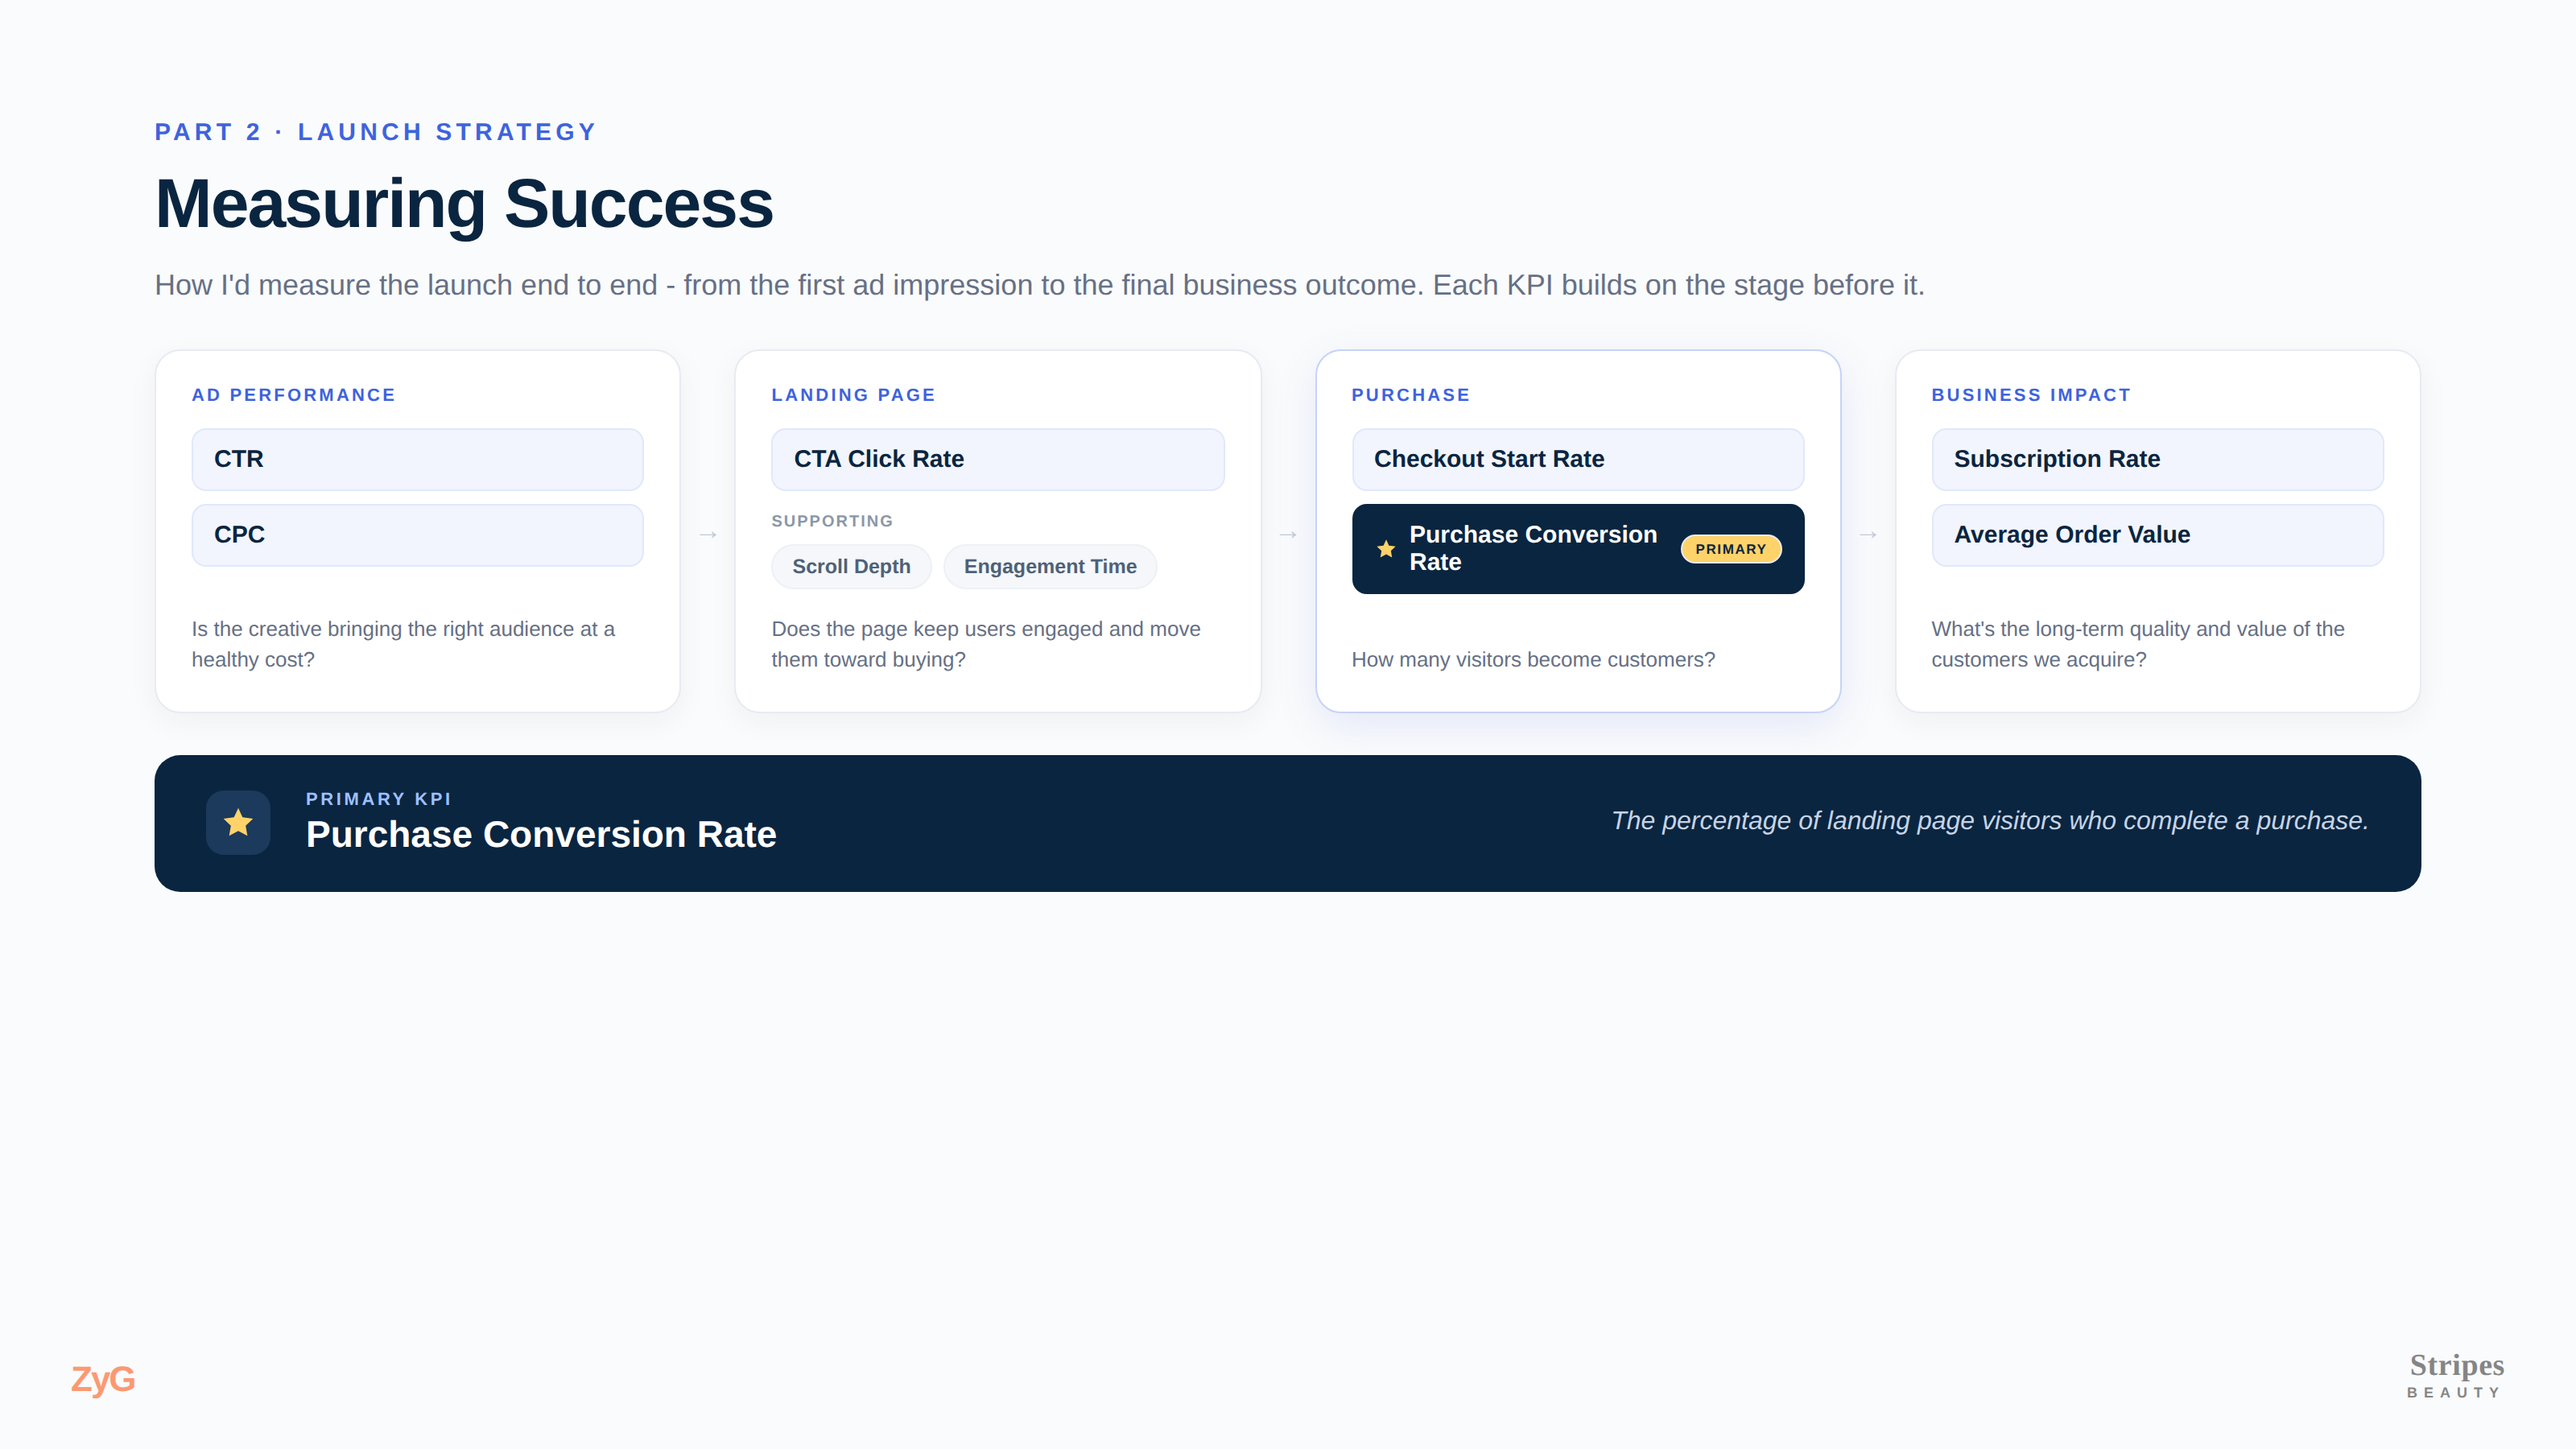
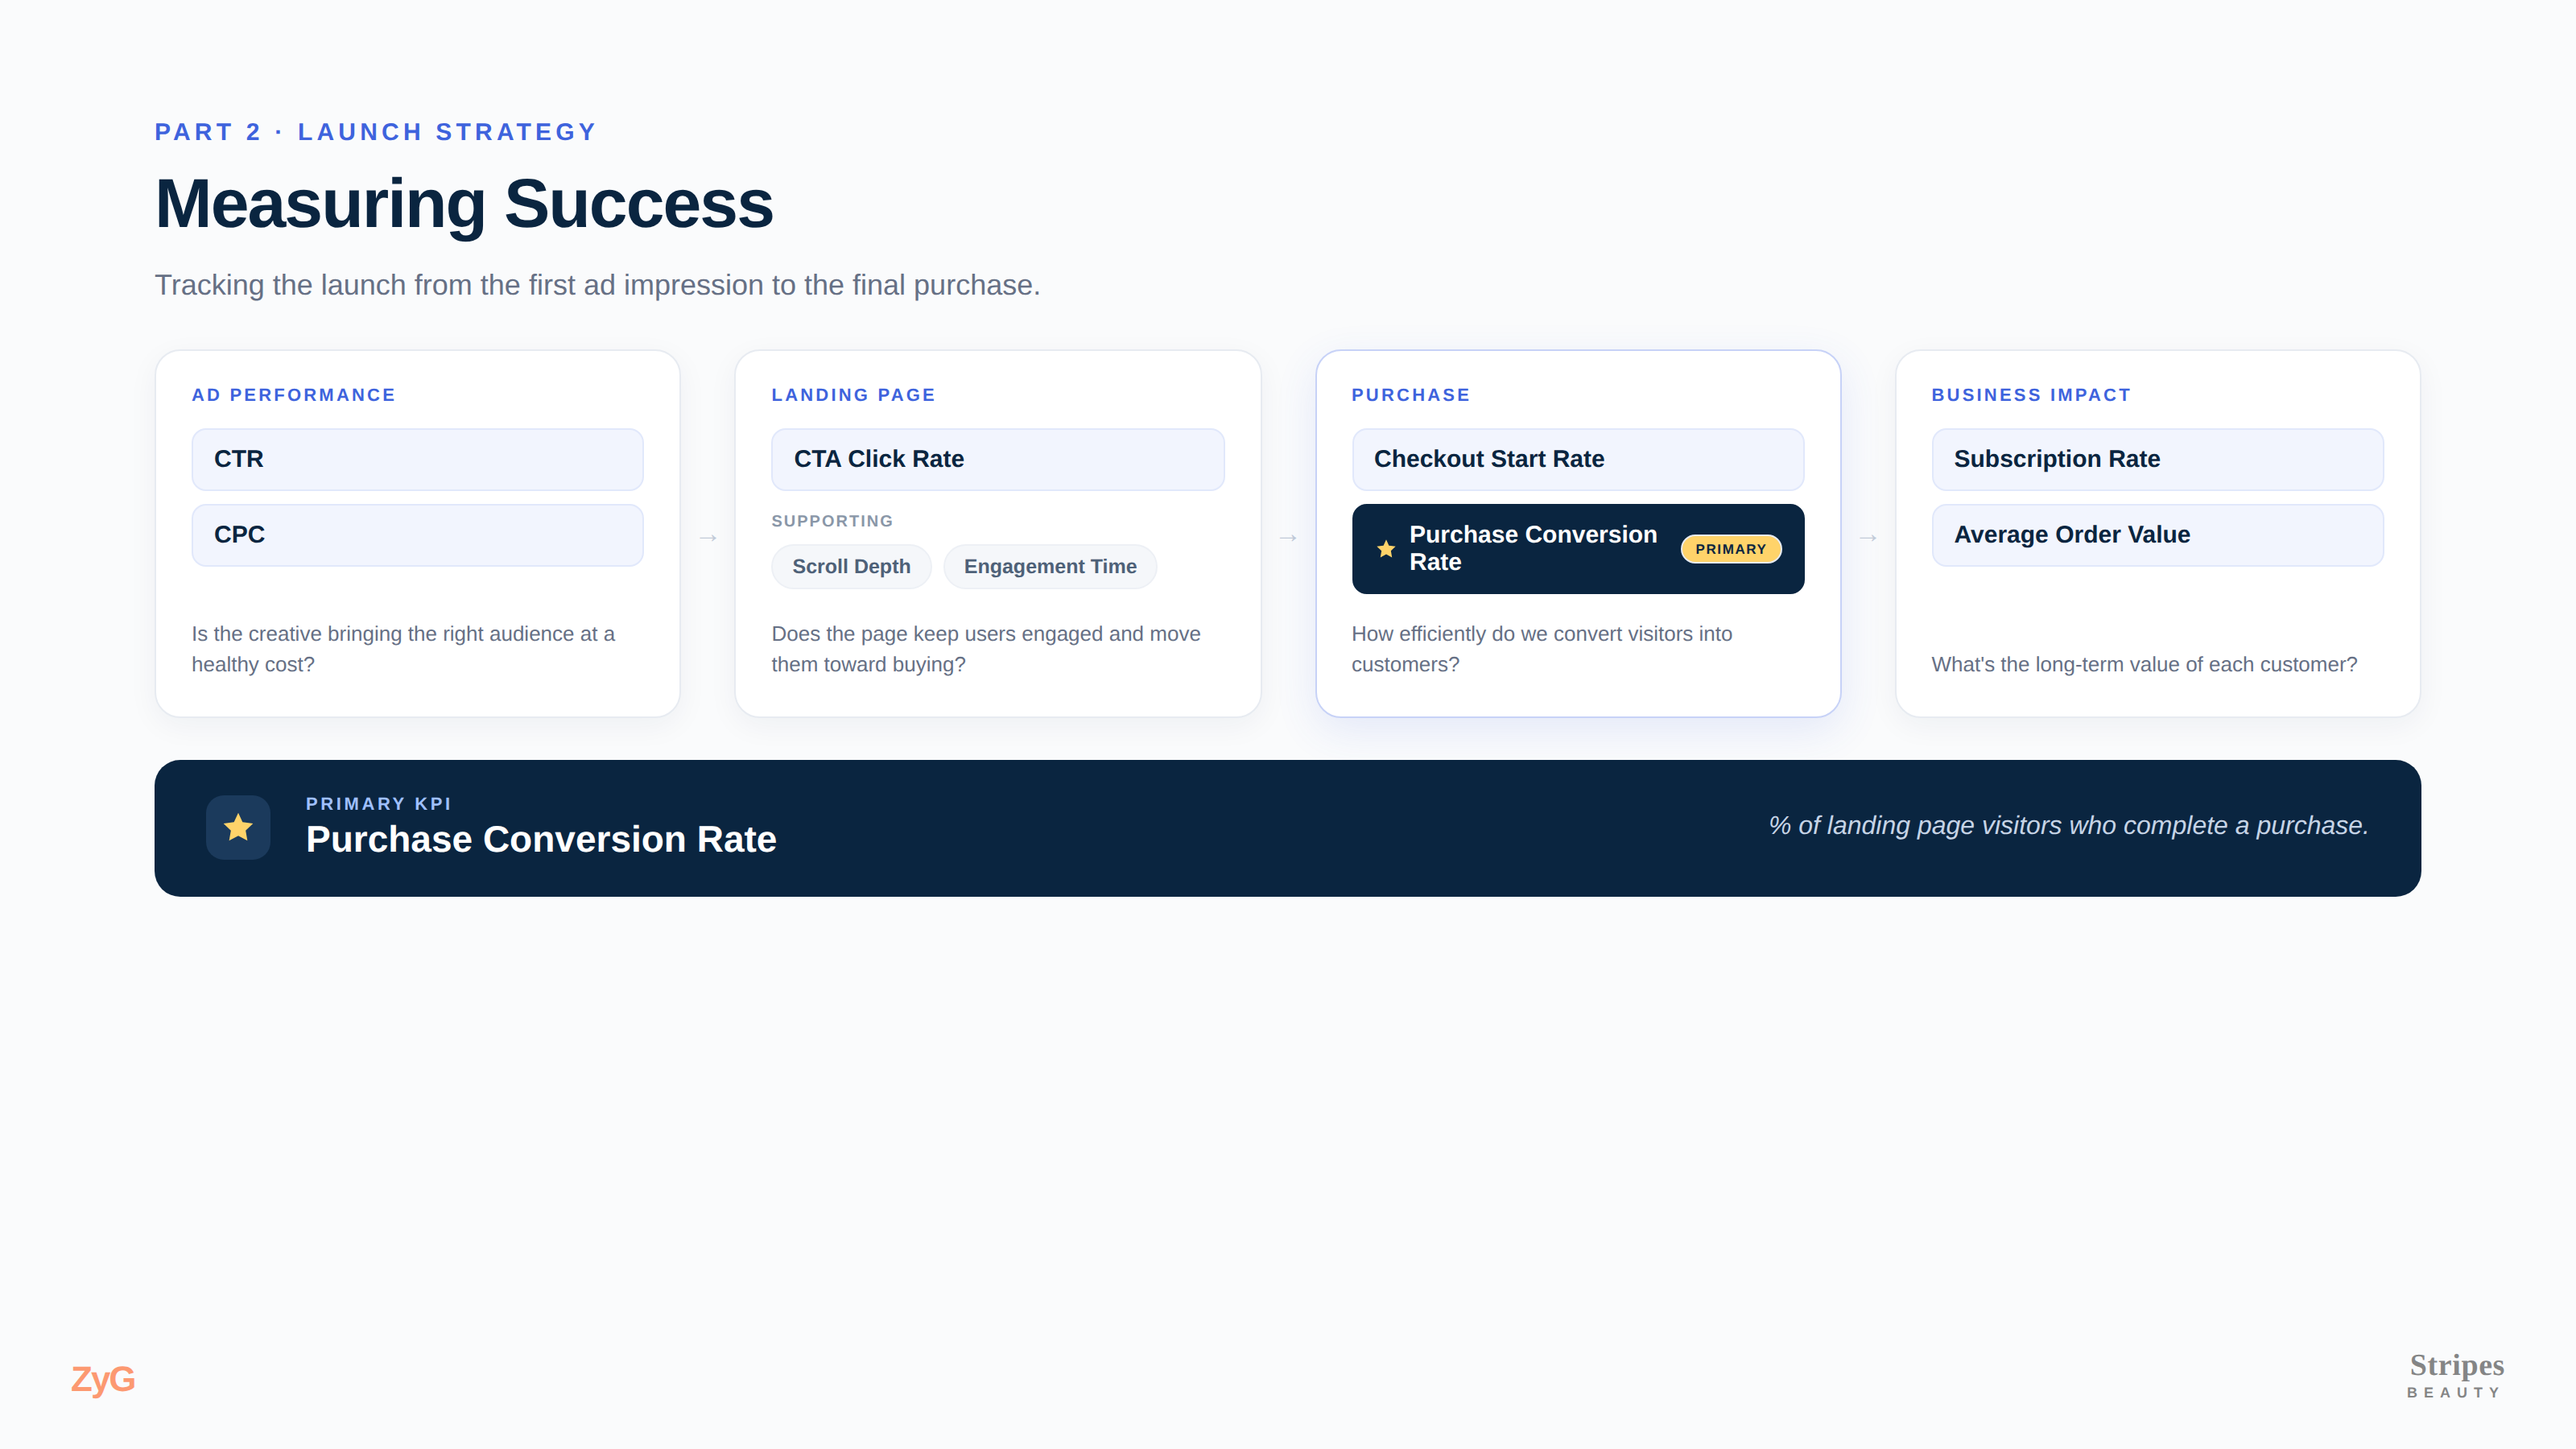
Measuring Success: subtitle + purpose/definition copy tweaks
Claude-Session: https://claude.ai/code/session_01GoAG3ySswQXo2H1hh5EwTk

diff --git a/diagrams/slides/p2-05-metrics.html b/diagrams/slides/p2-05-metrics.html
@@ -25,7 +25,7 @@
 <div class="slide">
   <div class="kicker">Part 2 &middot; Launch Strategy</div>
   <div class="h1">Measuring Success</div>
-  <div class="lead" style="font-size:18px;">How I'd measure the launch end to end - from the first ad impression to the final business outcome. Each KPI builds on the stage before it.</div>
+  <div class="lead" style="font-size:18px;">Tracking the launch from the first ad impression to the final purchase.</div>
 
   <div class="flow">
     <div class="kc">
@@ -58,7 +58,7 @@
         <div class="mc">Checkout Start Rate</div>
         <div class="mc kpi"><svg viewBox="0 0 24 24" fill="currentColor"><path d="M12 2l2.9 6.3L22 9.3l-5 4.7 1.2 6.9L12 17.6 5.8 20.9 7 14 2 9.3l7.1-1z"/></svg>Purchase Conversion Rate<span class="tag">PRIMARY</span></div>
       </div>
-      <div class="pp">How many visitors become customers?</div>
+      <div class="pp">How efficiently do we convert visitors into customers?</div>
     </div>
     <div class="fa">&rarr;</div>
 
@@ -68,7 +68,7 @@
         <div class="mc">Subscription Rate</div>
         <div class="mc">Average Order Value</div>
       </div>
-      <div class="pp">What's the long-term quality and value of the customers we acquire?</div>
+      <div class="pp">What's the long-term value of each customer?</div>
     </div>
   </div>
 
@@ -78,7 +78,7 @@
       <div class="lbl">Primary KPI</div>
       <div class="kpi">Purchase Conversion Rate</div>
     </div>
-    <div class="def">The percentage of landing page visitors who complete a purchase.</div>
+    <div class="def">% of landing page visitors who complete a purchase.</div>
   </div>
 
   <div class="foot"><div class="zyg">ZyG</div><div class="stripes"><div class="word">Stripes</div><div class="beauty">BEAUTY</div></div></div>
